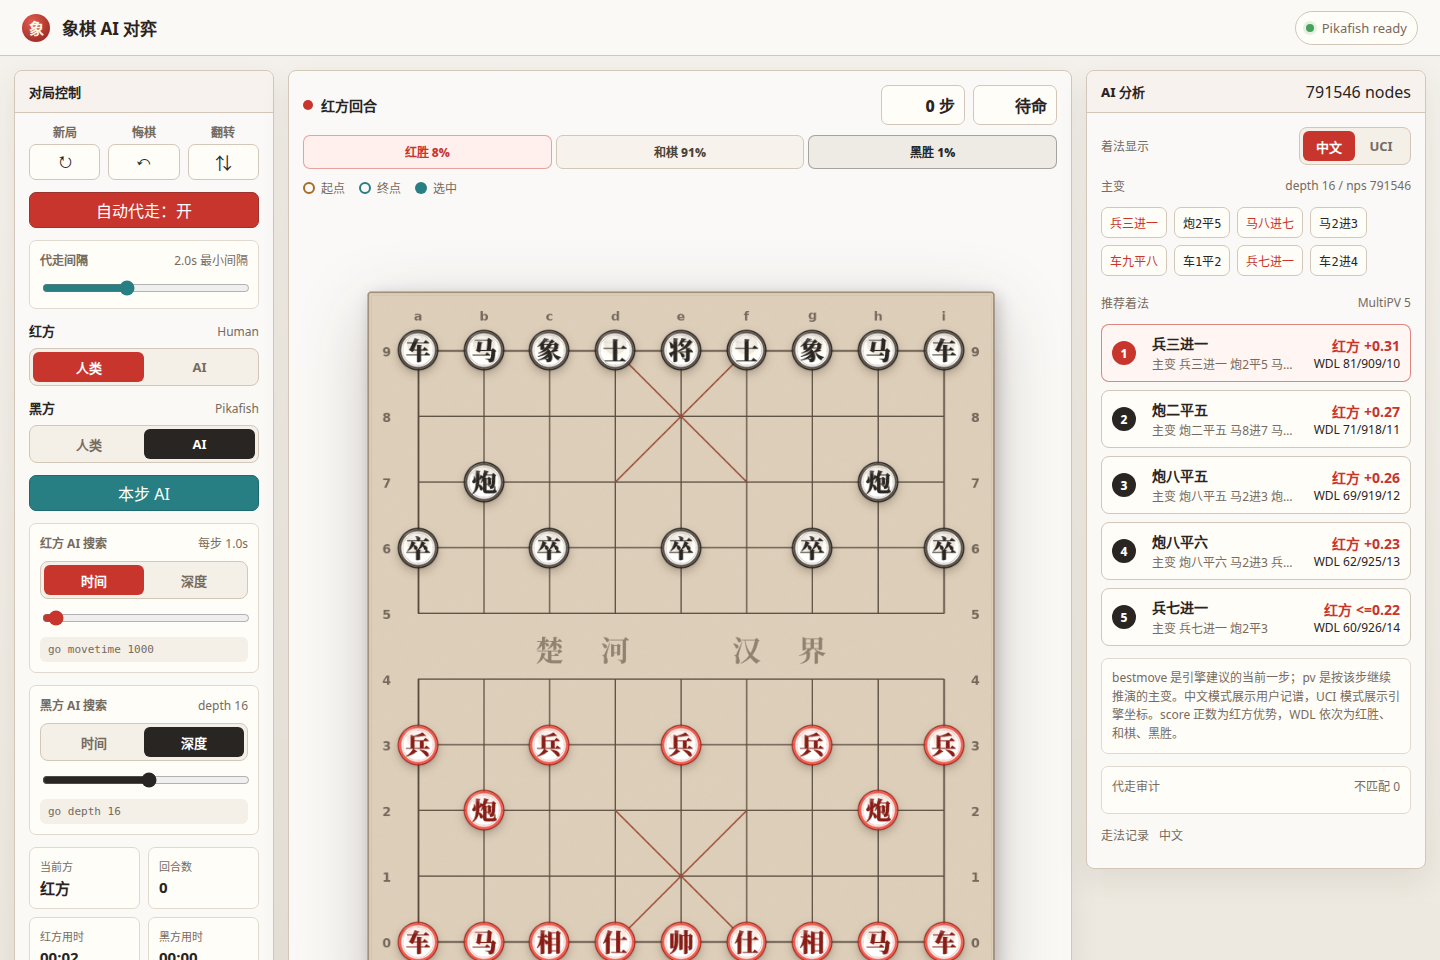
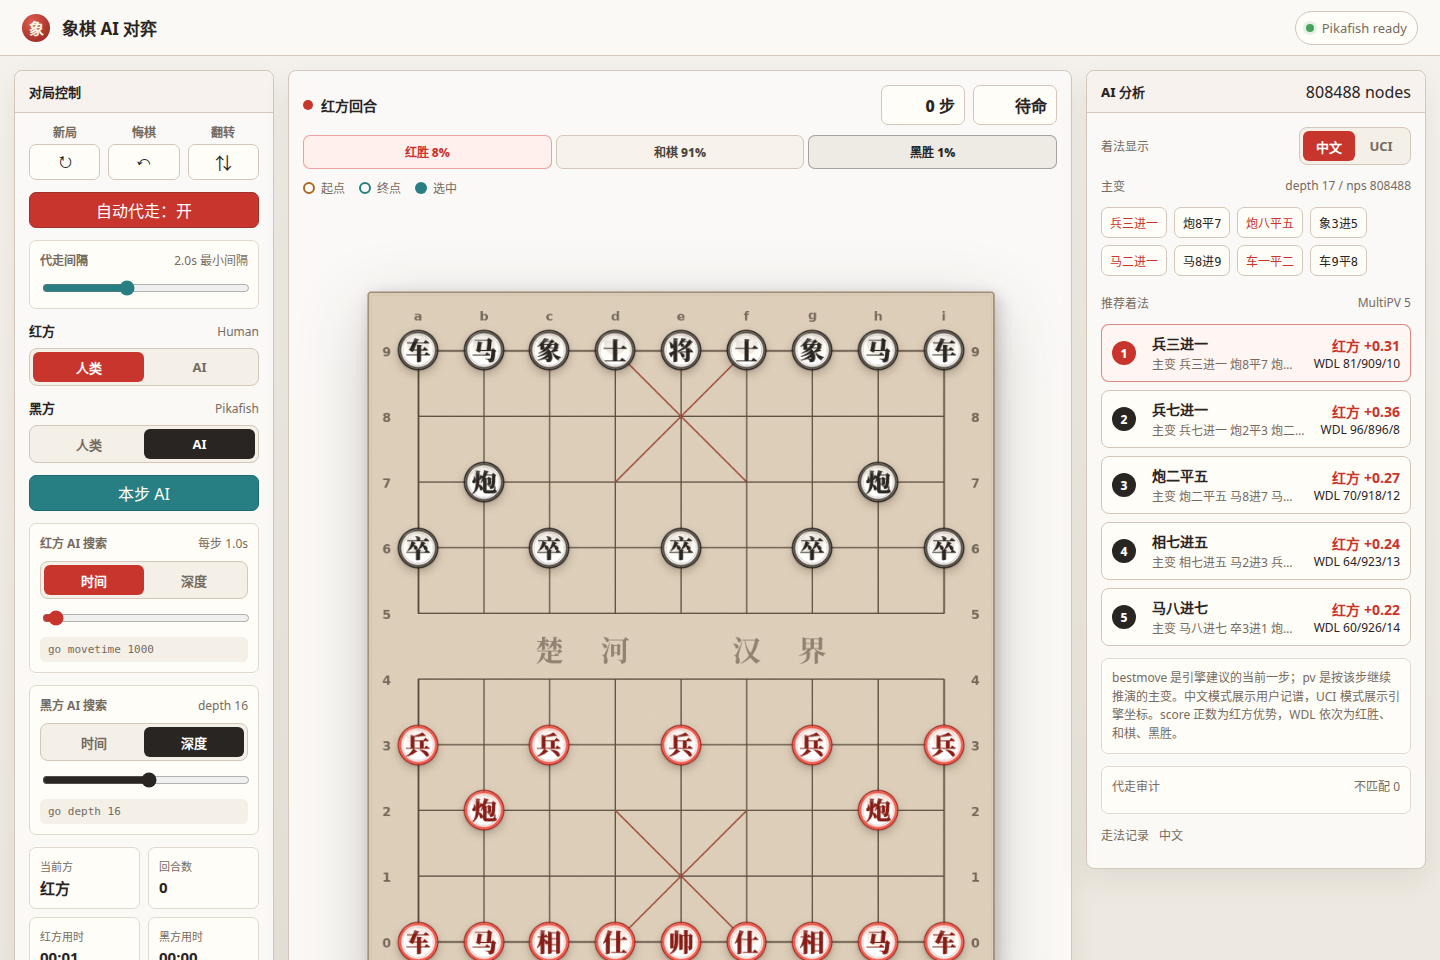
Stop auto play on analysis mismatch

diff --git a/web/frontend/app.js b/web/frontend/app.js
@@ -25,6 +25,7 @@ const state = {
   generation: 0,
   auditLogs: [],
   mismatchCount: 0,
+  mismatchHandling: false,
 };
 
 const el = {
@@ -193,6 +194,44 @@ function renderAudit() {
   )).join("");
 }
 
+function setAutoMode(enabled) {
+  state.autoMode = enabled;
+  el.autoMode.textContent = state.autoMode ? "自动代走：开" : "自动代走：关";
+  el.autoMode.classList.toggle("is-off", !state.autoMode);
+  el.autoMode.setAttribute("aria-pressed", state.autoMode ? "true" : "false");
+  if (!state.autoMode) clearTimeout(state.autoTimer);
+  else scheduleAuto();
+}
+
+async function restoreToMoves(moves) {
+  clearTimeout(state.autoTimer);
+  state.generation += 1;
+  state.moves = [...moves];
+  state.lastMove = state.moves.at(-1) || null;
+  state.selected = null;
+  state.analysis = null;
+  state.analysisKey = "";
+  await syncPosition();
+  await refreshAnalysis();
+}
+
+async function handleMismatch(message, restoreMoves = state.moves) {
+  addAudit(message, true);
+  if (state.mismatchHandling) return;
+  state.mismatchHandling = true;
+  const targetMoves = [...restoreMoves];
+  try {
+    setAutoMode(false);
+    await restoreToMoves(targetMoves);
+    window.alert(`检测到代走不匹配：${message}\n\n已关闭自动代走，并回到触发检查时的局面。`);
+  } catch (error) {
+    console.error(error);
+    window.alert(`检测到代走不匹配：${message}\n\n自动代走已关闭，但回滚局面失败：${error.message}`);
+  } finally {
+    state.mismatchHandling = false;
+  }
+}
+
 function scoreText(line) {
   return line.score?.display || "-";
 }
@@ -325,11 +364,11 @@ async function refreshAnalysis() {
   el.engineStatus.textContent = "Pikafish thinking";
   const data = await api("/api/analyze", { moves: movesSnapshot, positionId: positionIdSnapshot, limit: currentLimit(sideSnapshot), multipv: 5 });
   if (key !== movesKey() || generationSnapshot !== state.generation) {
-    addAudit("丢弃过期分析", true);
+    await handleMismatch("丢弃过期分析", movesSnapshot);
     return false;
   }
   if (data.positionId !== state.positionId) {
-    addAudit("分析 positionId 不匹配", true);
+    await handleMismatch("分析 positionId 不匹配", movesSnapshot);
     return false;
   }
   state.analysis = data;
@@ -343,28 +382,20 @@ async function refreshAnalysis() {
 async function playAiMove() {
   if (state.gameOver) return;
   const generationSnapshot = state.generation;
+  const movesSnapshot = [...state.moves];
   if (!state.analysis || state.analysisKey !== movesKey()) {
     const refreshed = await refreshAnalysis();
     if (!refreshed) return;
   }
   if (generationSnapshot !== state.generation) {
-    addAudit("代走任务过期", true);
+    await handleMismatch("代走任务过期", movesSnapshot);
     return;
   }
   if (state.analysis?.positionId === state.positionId && state.analysis?.bestmove && state.legalMoves.includes(state.analysis.bestmove)) {
     addAudit(`代走 ${state.analysis.bestmove}`);
     await movePiece(state.analysis.bestmove);
   } else if (state.analysis?.bestmove) {
-    addAudit("bestmove 审核失败，重新分析", true);
-    state.analysis = null;
-    state.analysisKey = "";
-    await refreshAnalysis();
-    if (state.analysis?.positionId === state.positionId && state.analysis?.bestmove && state.legalMoves.includes(state.analysis.bestmove)) {
-      addAudit(`代走 ${state.analysis.bestmove}`);
-      await movePiece(state.analysis.bestmove);
-    } else {
-      addAudit("重新分析后仍未通过", true);
-    }
+    await handleMismatch("bestmove 审核失败，重新分析", movesSnapshot);
   }
 }
 
@@ -405,7 +436,7 @@ function showError(error) {
   el.thinking.textContent = "错误";
   el.engineStatus.textContent = error.message;
   if (/positionId|illegal|bestmove|不匹配/i.test(error.message)) {
-    addAudit(error.message, true);
+    handleMismatch(error.message, state.moves);
   }
   console.error(error);
 }
@@ -439,10 +470,7 @@ function bindControls() {
     renderBoard();
   });
   el.autoMode.addEventListener("click", () => {
-    state.autoMode = !state.autoMode;
-    el.autoMode.textContent = state.autoMode ? "自动代走：开" : "自动代走：关";
-    el.autoMode.classList.toggle("is-off", !state.autoMode);
-    scheduleAuto();
+    setAutoMode(!state.autoMode);
   });
   el.manualAi.addEventListener("click", () => playAiMove().catch(showError));
   el.delayRange.addEventListener("input", () => {

diff --git a/tests/frontend_mismatch.spec.js b/tests/frontend_mismatch.spec.js
@@ -1,0 +1,40 @@
+const { test, expect } = require("@playwright/test");
+
+test("mismatch alert disables auto mode and restores the checked position", async ({ page }) => {
+  const alerts = [];
+  page.on("dialog", async (dialog) => {
+    alerts.push(dialog.message());
+    await dialog.accept();
+  });
+
+  await page.goto("http://127.0.0.1:8080/");
+  await page.waitForLoadState("networkidle");
+  await page.getByRole("button", { name: "自动代走：开" }).click();
+  await expect(page.locator("#autoMode")).toHaveText("自动代走：关");
+
+  let corrupted = false;
+  await page.route("**/api/analyze", async (route) => {
+    const response = await route.fetch();
+    const data = await response.json();
+    if (!corrupted) {
+      data.positionId = "forced-mismatch";
+      corrupted = true;
+    }
+    await route.fulfill({
+      status: 200,
+      contentType: "application/json",
+      body: JSON.stringify(data),
+    });
+  });
+
+  await page.locator('.piece[data-square="h2"]').click();
+  await page.locator('.square-target[data-square="e2"]').click();
+
+  await expect.poll(() => alerts.length).toBe(1);
+  expect(alerts[0]).toContain("检测到代走不匹配");
+  await expect(page.locator("#autoMode")).toHaveText("自动代走：关");
+  await expect(page.locator("#autoMode")).toHaveAttribute("aria-pressed", "false");
+  await expect(page.locator("#moveCount")).toHaveText("1 步");
+  await expect(page.locator("#turnStat")).toHaveText("黑方");
+  await expect(page.locator("#mismatchCount")).toContainText("不匹配 1");
+});